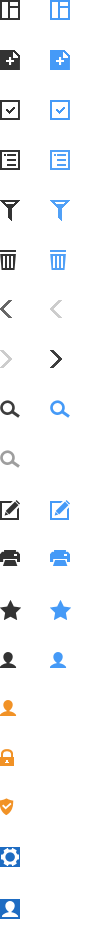
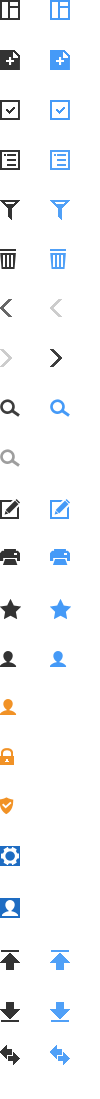
组织管理和成员管理页面样式
组织管理和成员管理页面样式

Changed region(s): [[0.0, 0.0, 0.21, 0.9758], [0.48, 0.0, 0.72, 0.7014], [0.51, 0.8538, 0.69, 0.9758]]

diff --git a/pages/organization-management.html b/pages/organization-management.html
@@ -33,53 +33,45 @@
                     <header class="clearfix">
                         <div class="operate-area">
                             <a title="新增" class="icon add-btn" href="#"></a>
-                            <a title="全选" class="icon all-select-btn" href="#"></a>
                             <a title="删除" class="icon delete-btn" href="#"></a>
+                            <a title="上移" class="icon up-btn" href="#"></a>
+                            <a title="下移" class="icon down-btn" data-tip-content-id="sortBox" href="#"></a>
+                            <a title="转换" class="icon transform-btn" data-tip-content-id="filterBox" href="#"></a>
                         </div>
                     </header>
                     <div class="content">
-                        <h3 class="organization-title">所在部门：</h3>
-                        <div class="organization-content">
-                            <input type="text" class="input-box"/>
-                        </div>
-                        <h3 class="membership-title">部门成员：</h3>
-                        <div class="membership-content">
-                            <label class="checkbox"><input type="checkbox"/>全部成员</label>
-                            <label class="checkbox"><input type="checkbox"/>全部成员</label>
-                            <label class="checkbox"><input type="checkbox"/>全部成员</label>
-                            <label class="checkbox"><input type="checkbox"/>全部成员</label>
-                            <label class="checkbox"><input type="checkbox"/>全部成员</label>
-                            <label class="checkbox"><input type="checkbox"/>全部成员</label>
-                            <label class="checkbox"><input type="checkbox"/>全部成员</label>
-                            <label class="checkbox"><input type="checkbox"/>全部成员</label>
-                        </div>
+
                     </div>
                 </div>
                 <article class="layout-file-content">
                     <header>
                     </header>
                     <div class="content">
-                        <div class="detail-info cell-membership-detail">
+                        <div class="detail-info cell-organization-detail">
                             <div class="cell-header">
-                                <h2 class="title">成员详情</h2>
+                                <h2 class="title">组织详情</h2>
                             </div>
                             <div class="cell-content">
                                 <ul class="form-list">
                                     <li>
-                                        <label class="label-describe">用户名：</label>
+                                        <label class="label-describe">单位名称：</label>
                                         <input type="text" class="input-box"/>
                                     </li>
                                     <li>
-                                        <label class="label-describe">真实姓名：</label>
+                                        <label class="label-describe">单位地址：</label>
                                         <input type="text" class="input-box"/>
                                     </li>
                                     <li>
-                                        <label class="label-describe">所在部门：</label>
+                                        <label class="label-describe">电话号码：</label>
                                         <input type="text" class="input-box"/>
                                     </li>
                                     <li>
                                         <label class="label-describe">密码：</label>
                                         <input type="text" class="input-box"/>
+                                    </li>
+                                    <li>
+                                        <label class="label-describe">单位简介：</label>
+                                        <textarea class="textarea-box"></textarea>
                                     </li>
                                     <li>
                                         <label class="label-describe">单位权限：</label>

diff --git a/styles/base/layout.css b/styles/base/layout.css
@@ -66,6 +66,24 @@
 .mod-tool-bar .content .file-cabinet-btn:hover{
 	background-position: -100px -400px;
 }
+.mod-tool-bar .content .organization-management-btn{
+	background-position: 0 -500px;
+}
+.mod-tool-bar .content .organization-management-btn:hover{
+	background-position: -100px -500px;
+}
+.mod-tool-bar .content .user-management-btn{
+	background-position: 0 -600px;
+}
+.mod-tool-bar .content .user-management-btn:hover{
+	background-position: -100px -600px;
+}
+.mod-tool-bar .content .batch-processing-btn{
+	background-position: 0 -700px;
+}
+.mod-tool-bar .content .batch-processing-btn:hover{
+	background-position: -100px -700px;
+}
 .mod-tool-bar footer{
 	height: 41px;
 	border-top: 1px solid #6f6f6f;
@@ -87,7 +105,7 @@
 	height: 100%;
 	overflow-y: auto;
 }
-.mod-file-content header{
+.layout-file-content header{
 	height: 39px;
 	border-bottom: 1px solid #7f7f7f;
 	text-align: center;
@@ -95,7 +113,6 @@
 .layout{
 	width: 100%;
 	min-width: 1280px;
-	max-width: 1420px;
 	position: relative;
 	margin: 0 auto;
 }
@@ -110,10 +127,31 @@
 	width: 450px;
 	height: 720px;
 	position: absolute;
+
 	top: 0;
 	left: 84px;
 }
 .layout .layout-file-content{
 	height: 720px;
 	margin-left: 534px;
+}
+.layout-file-list header .operate-area{
+	float: left;
+	margin-left: 20px;
+}
+.layout-file-list header .operate-area a{
+	margin-right: 14px;
+}
+.layout-file-list header{
+	position: relative;
+	height: 39px;
+	line-height: 40px;
+	background: url("../../images/list-shadow-bg.png") right 0 repeat-y;
+	border-bottom: 1px solid #7f7f7f;
+}
+.layout-file-list .content{
+	width: 100%;
+	height: 100%;
+	overflow-y: auto;
+	background: url("../../images/list-shadow-bg.png") right 0 repeat-y;
 }

diff --git a/styles/page/organization-management.css b/styles/page/organization-management.css
@@ -1,0 +1,48 @@
+/**
+ * 组织管理样式
+ * @author : panda
+ * @createTime : 2012-12-11
+ */
+.detail-info .cell-header{
+	height: 32px;
+	line-height: 32px;
+	background-color: #eaeaea;
+}
+.detail-info .cell-header .title{
+	padding-left: 20px;
+	font-weight: 700;
+	font-size: 14px;
+	color: #333;
+}
+.detail-info .input-box{
+	width: 446px;
+}
+.detail-info .textarea-box{
+	width: 446px;
+	height: 272px;
+}
+.detail-info .radio-box label{
+	display: inline-block;
+	white-space:nowrap;
+	margin-right: 15px;
+	padding-right: 15px;
+	color: #333;
+}
+.detail-info .cell-content{
+	height: 616px;
+	overflow-y: auto;
+}
+.detail-info .cell-footer{
+	height: 71px;
+	border-top: 1px solid #ddd;
+	background-color: #f7f7f7;
+	line-height: 71px;
+	text-align: right;
+	padding-right: 20px;
+}
+.detail-info .cell-footer .reset-btn{
+	margin-left: 9px;
+}
+.cell-membership-detail .form-list{
+	border-bottom: 1px solid #eaeaea;
+}

diff --git a/styles/module/form-list.css b/styles/module/form-list.css
@@ -1,0 +1,33 @@
+/**
+ * form表单样式
+ * @author : panda
+ * @createTime : 2012-12-11
+ */
+.form-list li{
+	padding: 8px 0;
+}
+.form-list .label-describe{
+	display: inline-block;
+	width: 75px;
+	height: 26px;
+	line-height: 26px;
+	padding-right: 13px;
+	text-align: right;
+	color: #666;
+}
+.form-list .btn{
+	vertical-align: top;
+}
+label.radio{
+	zoom: 1;
+}
+label.radio:after{
+	display:block;
+    clear:both;
+    height:0;
+    content:"\0020";
+}
+label.radio input[type="radio"]{
+	float: left;
+	margin: 3px 3px 0 0;
+}

diff --git a/styles/base/icon.css b/styles/base/icon.css
@@ -41,6 +41,15 @@
 .print-btn{
 	background-position: 0 -547px;
 }
+.up-btn{
+	background-position: 0 -950px;
+}
+.down-btn{
+	background-position: 0 -1003px;
+}
+.transform-btn{
+	background-position: 0 -1046px;
+}
 .layout-btn:hover{
 	background-position: -50px 0;
 }
@@ -79,4 +88,13 @@
 }
 .print-btn:hover{
 	background-position: -50px -547px;
+}
+.up-btn:hover{
+	background-position: -50px -950px;
+}
+.down-btn:hover{
+	background-position: -50px -1003px;
+}
+.transform-btn:hover{
+	background-position: -50px -1046px;
 }

diff --git a/styles/page/inbox.css b/styles/page/inbox.css
@@ -3,21 +3,6 @@
  * @author : panda
  * @createTime : 2012-11-18
  */
-.mod-file-list header{
-	position: relative;
-	height: 39px;
-	line-height: 40px;
-	background: url("../../images/list-shadow-bg.png") right 0 repeat-y;
-	border-bottom: 1px solid #7f7f7f;
-}
-.mod-file-list header .operate-area{
-	float: left;
-	margin-left: 20px;
-}
-.mod-file-list header .operate-area a{
-	margin-right: 14px;
-	
-}
 .mod-file-list header .search-btn{
 	float: right;
 	margin: 12px 20px 0 0;

diff --git a/styles/module/input.css b/styles/module/input.css
@@ -13,7 +13,7 @@
 	color: #666;
 }
 .input-box:focus,
-.textarea:focus{
+.textarea-box:focus{
 	border-color: #6482b9;
 }
 .input-box.input-box-large{
@@ -33,8 +33,9 @@
 	cursor: not-allowed;
 }
 .textarea-box{
-	padding: 7px 7px 6px;
-	border: 1px solid #d9d9d9;
+	padding: 6px 4px;
+	border: 1px solid #a0a0a0;
+	border-radius: 3px;
 	line-height: 18px;
 	font-size: 12px;
 	color: #666;

diff --git a/styles/global/merge.css b/styles/global/merge.css
@@ -16,3 +16,4 @@
 @import url("../module/dialog.css");
 @import url("../module/placeholder.css");
 @import url("../module/paging.css");
+@import url("../module/form-list.css");
